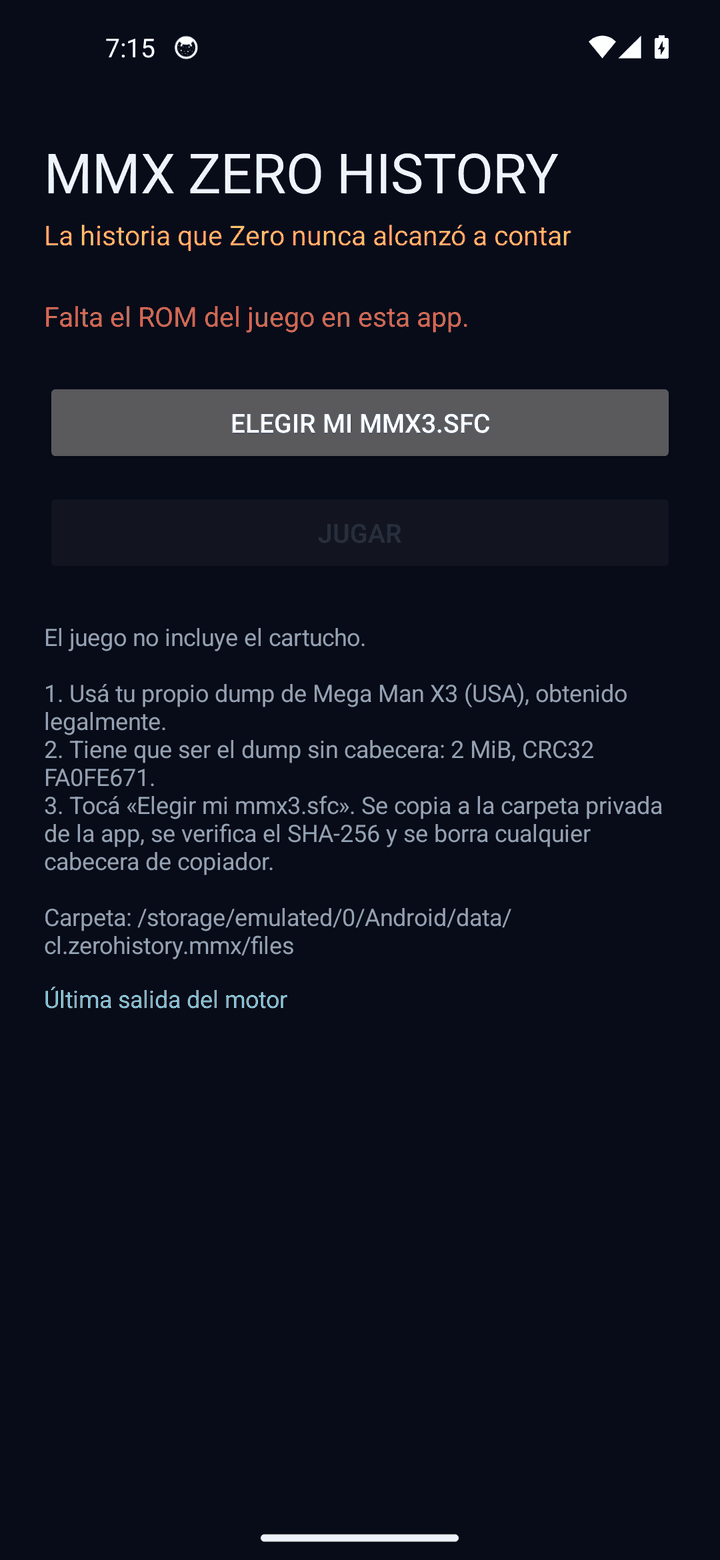
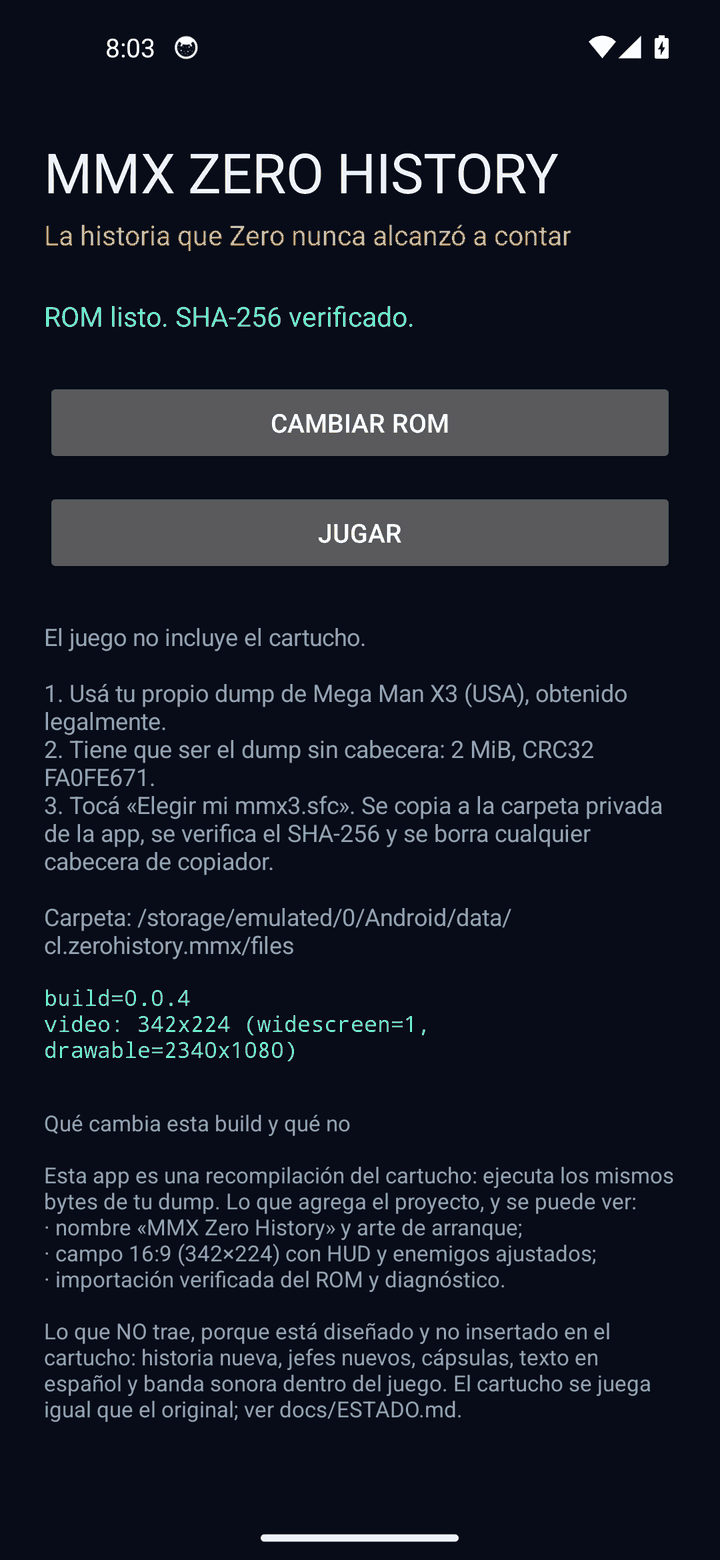
v0.0.4: decir en la app qué cambia esta build y qué no
El reporte fue «puse la ROM y arranca el Mega Man X3 original sin los cambios
del proyecto». Verificado: no es una regresión. El APK ejecuta el cartucho del
jugador tal cual (identidad 65b03268... verificada) y el contenido nuevo
—historia, jefes, cápsulas, guion, banda sonora— está diseñado en docs/ y no
insertado en el juego. Era invisible en la app, que es el problema real.

- La pantalla de entrada deja de arrancar el motor sola y pasa a ser la casa
  de la app: muestra la versión de la build y el campo elegido por el motor,
  leídos de native.log (líneas "[mmx] build=" y "[mmx] video:"), más una
  sección explícita «Qué cambia esta build y qué no».
- src/x3_display.c registra una vez por corrida el ancho de campo y el
  drawable; src/main.c registra la versión. Son la prueba de que el 16:9 se
  aplicó y de que esa corrida es esta build.
- README y docs/ESTADO.md documentan el inventario real: lo único visible en
  juego es nombre, arte de arranque y 16:9; el motor fijado trae
  snes_text_xlate para parchear texto/VRAM sin tocar el cartucho, y este
  proyecto todavía no lo inicializa.
- v0.0.4, versionCode 4, APK arm64-v8a + x86_64.

diff --git a/android/app/src/main/java/cl/zerohistory/mmx/RomSetupActivity.java b/android/app/src/main/java/cl/zerohistory/mmx/RomSetupActivity.java
@@ -36,6 +36,7 @@ public class RomSetupActivity extends Activity {
 
     private TextView status;
     private TextView logTitle;
+    private TextView buildView;
     private TextView logView;
     private Button pickButton;
     private Button playButton;
@@ -52,11 +53,11 @@ public class RomSetupActivity extends Activity {
         AssetInstaller.install(this);
         setContentView(buildUi());
         refresh();
-        // Con el ROM en su sitio, abrir la app es jugar. El botón queda igual
-        // por si el motor vuelve y hay que reintentar.
-        if (RomStore.isReady(this) && !startedOnce) {
-            startGame();
-        }
+        // No se arranca el motor solo. Esta pantalla es la casa de la app: es
+        // donde se ve qué build corre, qué campo eligió el motor y qué cambia
+        // esta versión. Arrancar de automático la escondía para siempre y, si
+        // el motor moría, el jugador volvía a caer en un arranque sin
+        // explicación. Un toque en JUGAR es una decisión, no una sorpresa.
     }
 
     @Override
@@ -139,6 +140,30 @@ public class RomSetupActivity extends Activity {
         logTitle.setVisibility(View.GONE);
         column.addView(logTitle);
 
+        buildView = new TextView(this);
+        buildView.setTextColor(Color.rgb(110, 255, 210));
+        buildView.setTextSize(12);
+        buildView.setTypeface(android.graphics.Typeface.MONOSPACE);
+        buildView.setVisibility(View.GONE);
+        column.addView(buildView);
+
+        TextView scope = new TextView(this);
+        scope.setText(
+                "Qué cambia esta build y qué no\n\n"
+                        + "Esta app es una recompilación del cartucho: ejecuta los mismos "
+                        + "bytes de tu dump. Lo que agrega el proyecto, y se puede ver:"
+                        + "\n· nombre «MMX Zero History» y arte de arranque;"
+                        + "\n· campo 16:9 (342×224) con HUD y enemigos ajustados;"
+                        + "\n· importación verificada del ROM y diagnóstico."
+                        + "\n\nLo que NO trae, porque está diseñado y no insertado en el "
+                        + "cartucho: historia nueva, jefes nuevos, cápsulas, texto en "
+                        + "español y banda sonora dentro del juego. El cartucho se juega "
+                        + "igual que el original; ver docs/ESTADO.md.");
+        scope.setTextColor(Color.rgb(150, 162, 180));
+        scope.setTextSize(12);
+        scope.setPadding(0, pad, 0, pad / 2);
+        column.addView(scope);
+
         logView = new TextView(this);
         logView.setTextColor(Color.rgb(200, 210, 225));
         logView.setTextSize(11);
@@ -170,6 +195,7 @@ public class RomSetupActivity extends Activity {
         playButton.setEnabled(ready);
         playButton.setAlpha(ready ? 1f : 0.4f);
         pickButton.setText(ready ? "Cambiar ROM" : "Elegir mi mmx3.sfc");
+        showBuildInfo();
     }
 
     private void pickRom() {
@@ -197,6 +223,8 @@ public class RomSetupActivity extends Activity {
         if (result.ok) {
             status.setText(result.message);
             status.setTextColor(Color.rgb(110, 255, 210));
+            // Importar es una acción explícita: si salió bien, jugar.
+            startGame();
         } else {
             showMessage(result.message);
             status.setTextColor(Color.rgb(255, 92, 92));
@@ -216,6 +244,39 @@ public class RomSetupActivity extends Activity {
         launchedGame = true;
         startedOnce = true;
         startActivity(new Intent(this, MainActivity.class));
+    }
+
+    /**
+     * El motor deja dos líneas al arrancar: `[mmx] build=<versión>` y
+     * `[mmx] video: 342x224 (widescreen=1, ...)`. Son la prueba de que esta
+     * corrida es la build del proyecto y de que el campo ancho se aplicó:
+     * sin ellas, «se ve como el original» no se puede ni confirmar ni negar.
+     */
+    private void showBuildInfo() {
+        String log = tail(new File(RomStore.dir(this), "native.prev.log"), 4096);
+        if (log == null) log = tail(new File(RomStore.dir(this), "native.log"), 4096);
+        String build = firstLineStartingWith(log, "[mmx] build=");
+        String video = firstLineStartingWith(log, "[mmx] video:");
+        if (build == null && video == null) {
+            buildView.setVisibility(View.GONE);
+            return;
+        }
+        StringBuilder sb = new StringBuilder();
+        if (build != null) sb.append(build.replace("[mmx] ", ""));
+        if (video != null) {
+            if (sb.length() > 0) sb.append('\n');
+            sb.append(video.replace("[mmx] ", ""));
+        }
+        buildView.setText(sb.toString());
+        buildView.setVisibility(View.VISIBLE);
+    }
+
+    private static String firstLineStartingWith(String text, String prefix) {
+        if (text == null) return null;
+        for (String line : text.split("\n")) {
+            if (line.startsWith(prefix)) return line.trim();
+        }
+        return null;
     }
 
     /**

diff --git a/src/x3_display.c b/src/x3_display.c
@@ -1,6 +1,7 @@
 #include "x3_display.h"
 
 #include <stddef.h>
+#include <stdio.h>
 
 #include "widescreen.h"
 
@@ -20,10 +21,24 @@ static int ClampEven(int64_t value) {
  * the host letterbox any extra screen. */
 #define MMX_MAX_FRAME_WIDTH 342
 
+/* One line per run, so the launcher screen can show what the engine actually
+ * chose. Without it there is no way to tell a 16:9 field from a 4:3 one on a
+ * phone, and "the game looks stock" becomes unfalsifiable. */
+static void announce_frame_width(int width, int drawable_width,
+                                 int drawable_height, int widescreen) {
+  static int announced;
+  if (announced) return;
+  announced = 1;
+  fprintf(stderr, "[mmx] video: %dx224 (widescreen=%d, drawable=%dx%d)\n",
+          width, widescreen ? 1 : 0, drawable_width, drawable_height);
+}
+
 int X3Display_ComputeFrameWidth(int drawable_width, int drawable_height,
                                  bool widescreen) {
-  if (!widescreen || drawable_width <= 0 || drawable_height <= 0)
+  if (!widescreen || drawable_width <= 0 || drawable_height <= 0) {
+    announce_frame_width(256, drawable_width, drawable_height, 0);
     return 256;
+  }
 
   /* 224 * 6 / 7 preserves the SNES 7:6 pixel aspect while matching the
    * requested display aspect. Use 64-bit arithmetic for hostile window sizes. */
@@ -35,6 +50,7 @@ int X3Display_ComputeFrameWidth(int drawable_width, int drawable_height,
     width++;
   if (width & 1) width++;
   if (width > MMX_MAX_FRAME_WIDTH) width = MMX_MAX_FRAME_WIDTH;
+  announce_frame_width((int)width, drawable_width, drawable_height, 1);
   return ClampEven(width);
 }
 

diff --git a/src/main.c b/src/main.c
@@ -102,6 +102,10 @@ int main(int argc, char **argv) {
     dup2(fileno(log), STDOUT_FILENO);
   }
   fprintf(stderr, "[mmx] main entry (cwd=%s)\n", getenv("MMX_WORKDIR") ? getenv("MMX_WORKDIR") : "?");
+#ifdef SNESRECOMP_BUILD_VERSION
+  /* La pantalla de entrada lee esta línea para enseñar qué build corrió. */
+  fprintf(stderr, "[mmx] build=%s\n", SNESRECOMP_BUILD_VERSION);
+#endif
   int rc = mmx_desktop_entry(argc, argv);
   fprintf(stderr, "[mmx] main exit rc=%d\n", rc);
   return rc;

diff --git a/tools/make_brand_art.py b/tools/make_brand_art.py
@@ -294,7 +294,7 @@ def banner() -> None:
     for name in ("Linux", "Windows", "macOS", "Android"):
         x += pill(img, x, 736, name, CYAN if name != "Android" else GREEN) + 14
 
-    w = pill(img, M, 832, "v0.0.3 — Bóveda Ω", VIOLET, 24)
+    w = pill(img, M, 832, "v0.0.4 — Bóveda Ω", VIOLET, 24)
     pill(img, M + w + 14, 832, "16:9 EN TODAS LAS VERSIONES", AMBER, 24)
 
     img.convert("RGB").save(OUT / "banner.png", quality=94)

diff --git a/RELEASE_NOTES_v0.0.4.md b/RELEASE_NOTES_v0.0.4.md
@@ -1,0 +1,72 @@
+## Por qué se juega el Mega Man X3 original
+
+No es un fallo de la app ni de la instalación: es lo que este repositorio
+contiene hoy.
+
+El APK es una **recompilación** del cartucho. Ejecuta los bytes de tu propio
+dump y no modifica su contenido: la identidad del ROM se verifica y se exige
+(`65b03268…f1d7`). La historia de la Bóveda Ω, los ocho mavericks, las cápsulas
+errantes, el guion en chileno y la banda sonora están **diseñados y
+documentados, no insertados** en el juego. Eso está dicho desde la 0.0.1 en el
+README («Qué **no** es esto») y en `docs/ESTADO.md`; esta versión lo hace
+visible dentro de la app para que nadie tenga que adivinarlo.
+
+### Lo que sí cambia y se puede comprobar
+
+- **Nombre, icono y placa de arranque** propios.
+- **Campo 16:9** de 342×224 con HUD anclado a los lados, columnas nuevas de BG1
+  y BG2 y ventanas de enemigos ensanchadas.
+- **Pantalla de entrada** con importación verificada del ROM y diagnóstico: la
+  versión de la build y el campo que el motor eligió (`build=0.0.4`,
+  `video: 342x224 (widescreen=1, …)`), leídos de `native.log`.
+
+Para confirmarlo en un teléfono:
+
+```console
+adb pull /sdcard/Android/data/cl.zerohistory.mmx/files/native.log
+grep -E "^\[mmx\] (build|video)" native.log
+```
+
+Si `video:` dice `342x224 (widescreen=1 …)`, el 16:9 está activo y esa es la
+build del proyecto. Si dice `256x224 (widescreen=0 …)`, revisá
+`config.ini` (`[Graphics] Widescreen = 1`).
+
+### Lo que falta para que el juego cambie de verdad
+
+El motor fijado ya trae el mecanismo: `snes_text_xlate` aplica parches de ROM,
+RAM y VRAM en memoria del invitado, con tabla de glifos y guardas de contenido,
+sin tocar el dump. Ningún puerto de este repositorio lo inicializa todavía.
+Hacerlo exige, en orden:
+
+1. Derivar del ROM la tabla de glifos y las direcciones de los bloques de texto
+   y de las pantallas que se quieran reemplazar.
+2. Escribir la tabla de parches con `source`/`target` y guardas para no pisar
+   pantallas que comparten tiles.
+3. Enlazar `snes_text_xlate_init_c` en el host y empaquetar la tabla como
+   recurso del mod.
+
+Eso cubre guion y arte de pantallas; jefes y mapas nuevos siguen siendo el
+trabajo de meses descrito en `docs/ESTADO.md`.
+
+## Android: diagnóstico visible
+
+- La pantalla de entrada muestra ahora, bajo el estado del ROM, la sección
+  **«Qué cambia esta build y qué no»** y las dos líneas del motor
+  (`build=`, `video:`).
+- `src/x3_display.c` registra una vez por corrida el ancho de campo elegido y
+  el tamaño del drawable; `src/main.c` registra la versión de la build.
+- El límite de 342 px sigue cubierto por `tools/test_display_width.sh`.
+
+## APK
+
+- `MMXZeroHistory-android-arm64-v8a.apk` (teléfonos) y
+  `MMXZeroHistory-android-x86_64.apk` (emuladores).
+- `versionCode 4`, `versionName 0.0.4`, firmados.
+
+## Límites conocidos, sin cambios
+
+- El envío de toques al guest sigue pendiente: para jugar hace falta un mando
+  Bluetooth.
+- El catálogo de mods no se carga en Android (el host lo resuelve contra
+  `/system/bin`); el 16:9 viaja por `config.ini`.
+- Todo corre en intérprete LLE: falta medir el rendimiento en un ARM real.

diff --git a/README.md b/README.md
@@ -28,6 +28,30 @@ Lo que hay acá es todo el andamiaje alrededor de eso más el motor real
 compilando. La línea exacta entre "funciona" y "está escrito" está en
 [`docs/ESTADO.md`](docs/ESTADO.md), sin adornos.
 
+### Qué ves cuando jugás
+
+Esto es lo que cambia de verdad al abrir el juego, y es todo:
+
+- **El nombre**: la app es *MMX Zero History*, con icono y placa de arranque
+  propios.
+- **El campo 16:9** (342×224): HUD anclado a los lados, columnas nuevas de BG1
+  y BG2, ventanas de activación y dibujo de enemigos ensanchadas. Se apaga
+  desde `config.ini` (`Widescreen = 0`).
+- **El diagnóstico**: la pantalla de entrada de Android muestra la versión de
+  la build y el campo que el motor eligió, leídos de `native.log`.
+
+Y esto es lo que **no** cambia, porque está diseñado y no insertado: la
+historia de la Bóveda Ω, los ocho mavericks, las cápsulas errantes, el guion en
+chileno y la banda sonora **no están dentro del juego**. Si abrís el APK y ves
+la intro, el select de etapas y los jefes originales de Mega Man X3, es el
+comportamiento esperado de esta versión, no un fallo de instalación.
+
+El motor fijado trae un sistema de parches de texto/VRAM en tiempo de
+ejecución (`snes_text_xlate`, en `snesrecomp/runner/src`) que este proyecto
+**todavía no usa**: es la vía para traducir el guion sin tocar el cartucho, y
+necesita las tablas de glifos y las direcciones reales del ROM. Está anotado
+como el siguiente trabajo grande en [`docs/ESTADO.md`](docs/ESTADO.md).
+
 ## El ROM
 
 Tenés que poner tu propio dump, legalmente obtenido. Nada derivado del ROM se
@@ -173,7 +197,7 @@ binario no trae el juego, lo carga desde tu dump.
    cabecera de copiador si la trae.
 4. La app arranca el motor con el campo 16:9.
 
-![Pantalla de entrada en Android](docs/img/android-rom-setup.png)
+![Pantalla de entrada en Android: ROM verificado, build y campo 16:9](docs/img/android-rom-setup.png)
 
 Para capturar una pantalla de juego —la etapa 1, por ejemplo— con tu dump ya
 cargado:

diff --git a/docs/ESTADO.md b/docs/ESTADO.md
@@ -1,4 +1,4 @@
-# Estado real de la versión 0.0.3
+# Estado real de la versión 0.0.4
 
 Este documento existe porque es fácil confundir "está documentado" con "está
 implementado". Acá está la línea entre las dos cosas, sin adornos.
@@ -51,6 +51,28 @@ implementado". Acá está la línea entre las dos cosas, sin adornos.
   setup host en Linux, Windows y macOS en runners reales, y los tres `.zip`
   quedaron adjuntos a la release `v0.0.1`. El gate `Desktop host` corrió verde
   en Linux (pruebas + compilación).
+
+## Qué se ve al jugar (0.0.4)
+
+Esta es la respuesta corta a «instalé el APK y arranca el Mega Man X3
+original». Es correcto: el juego **es** el cartucho original, ejecutado por el
+intérprete LLE. Lo único que el proyecto cambia en pantalla es:
+
+- el nombre, el icono y la placa de arranque de la app;
+- el campo 16:9 (342×224) con el HUD y las ventanas de objetos ajustadas;
+- la pantalla de entrada, con la importación verificada del ROM y el
+  diagnóstico (`build=`, `video: 342x224`).
+
+No hay historia nueva, jefes nuevos, cápsulas, guion en chileno ni banda sonora
+dentro del juego. Todo eso está diseñado en `docs/` y **no insertado**; el
+detalle de por qué es un trabajo de meses está más abajo, en «Lo que NO existe».
+
+El motor fijado (`snesrecomp`) sí trae la herramienta para hacerlo sin tocar el
+cartucho: `runner/src/snes_text_xlate.cpp` aplica parches de ROM, RAM y VRAM en
+memoria de invitado, con tabla de glifos y guardas de contenido. Ningún puerto
+de este repositorio la inicializa todavía (`snes_text_xlate_init_c` no tiene
+llamador). Es el camino correcto para el guion y para arte de pantallas
+concretas, y requiere derivar del ROM las direcciones y los glifos reales.
 
 ## Lo que está escrito pero NO ejecutado
 

diff --git a/docs/ANDROID.md b/docs/ANDROID.md
@@ -48,6 +48,21 @@ RomSetupActivity (launcher)
   siguen cuadradas en cualquier aspecto. Los insets del notch y de la barra de
   gestos se aplican antes de dibujar y de hacer hit-test.
 
+## Qué se juega (y qué no)
+
+El APK ejecuta el cartucho del jugador tal cual: recompilado, verificado e
+intacto. La historia nueva, los jefes, las cápsulas, el guion en chileno y la
+banda sonora están diseñados en `docs/` y **no insertados** en el juego. Lo que
+el proyecto aporta en pantalla es el nombre, el icono, la placa de arranque y
+el campo 16:9. La pantalla de entrada lo dice explícitamente y muestra la
+versión de la build y el ancho de campo elegido, leídos de `native.log`
+(`[mmx] build=…`, `[mmx] video: 342x224 (widescreen=1, …)`).
+
+Vía para cambiarlo sin tocar el cartucho: `snes_text_xlate`
+(`snesrecomp/runner/src/snes_text_xlate.cpp`) aplica parches de ROM/RAM/VRAM en
+memoria del invitado. No está inicializado por ningún puerto todavía; necesita
+las tablas de glifos y las direcciones reales del ROM.
+
 ## Configuración y diagnóstico
 
 Todo lo que el host escribe vive en el directorio de trabajo de la app
@@ -112,7 +127,7 @@ El script configura CMake con `MMX_LLE_ONLY=ON` y SDL3, compila
 SDL, copia el catálogo de mods a `assets/mods`, genera/usa un keystore y corre
 `gradle assembleRelease`. Salida: `dist/MMXZeroHistory-android-<abi>.apk`.
 
-## Estado real (v0.0.3)
+## Estado real (v0.0.4)
 
 Verificado en un emulador Android 14 (x86_64, KVM):
 
